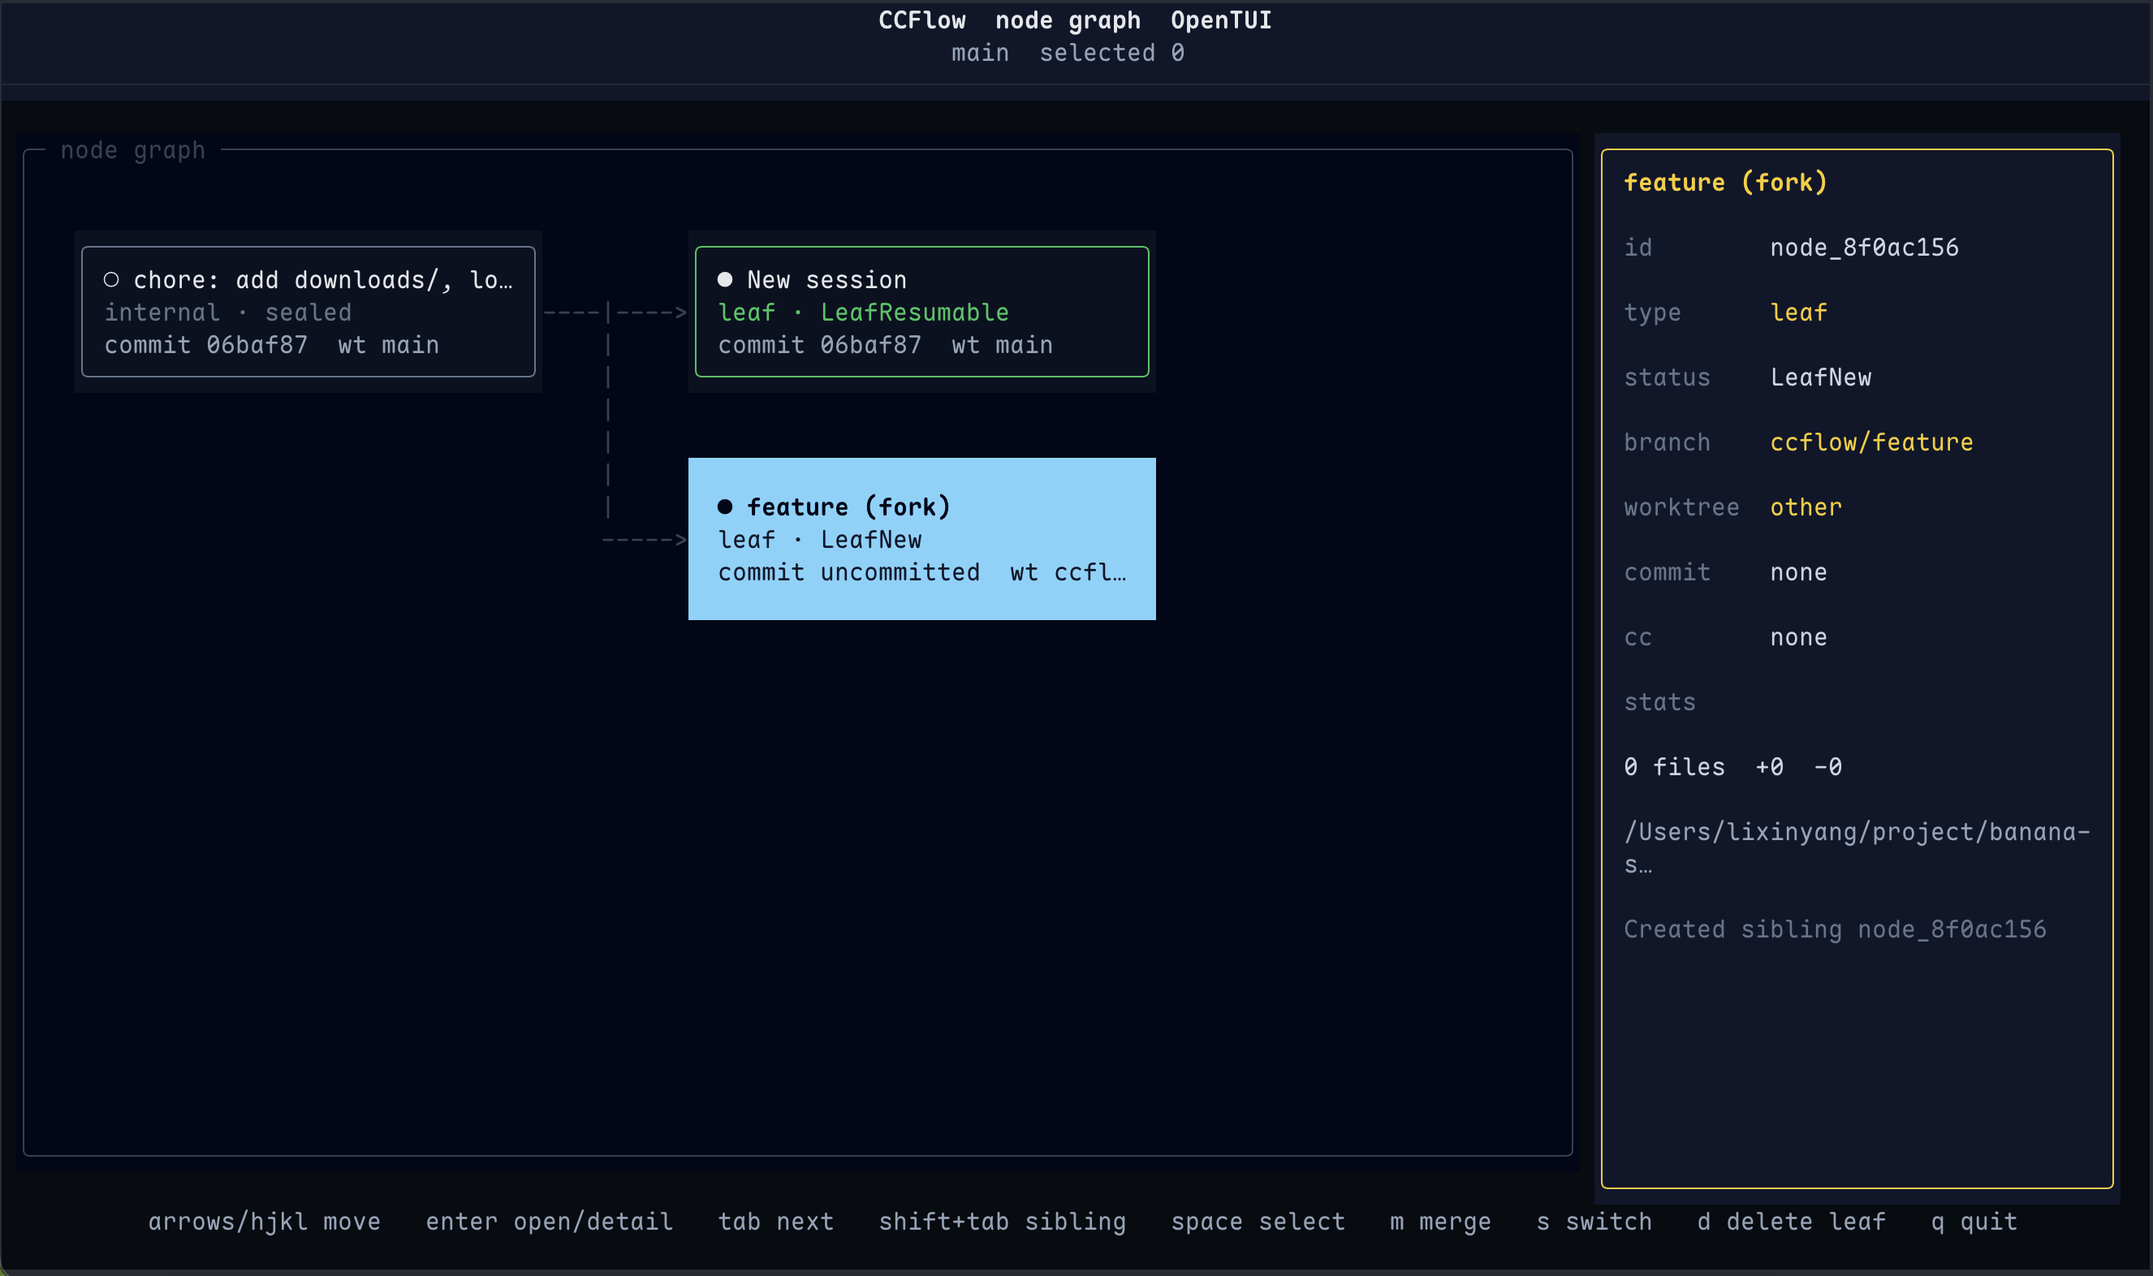
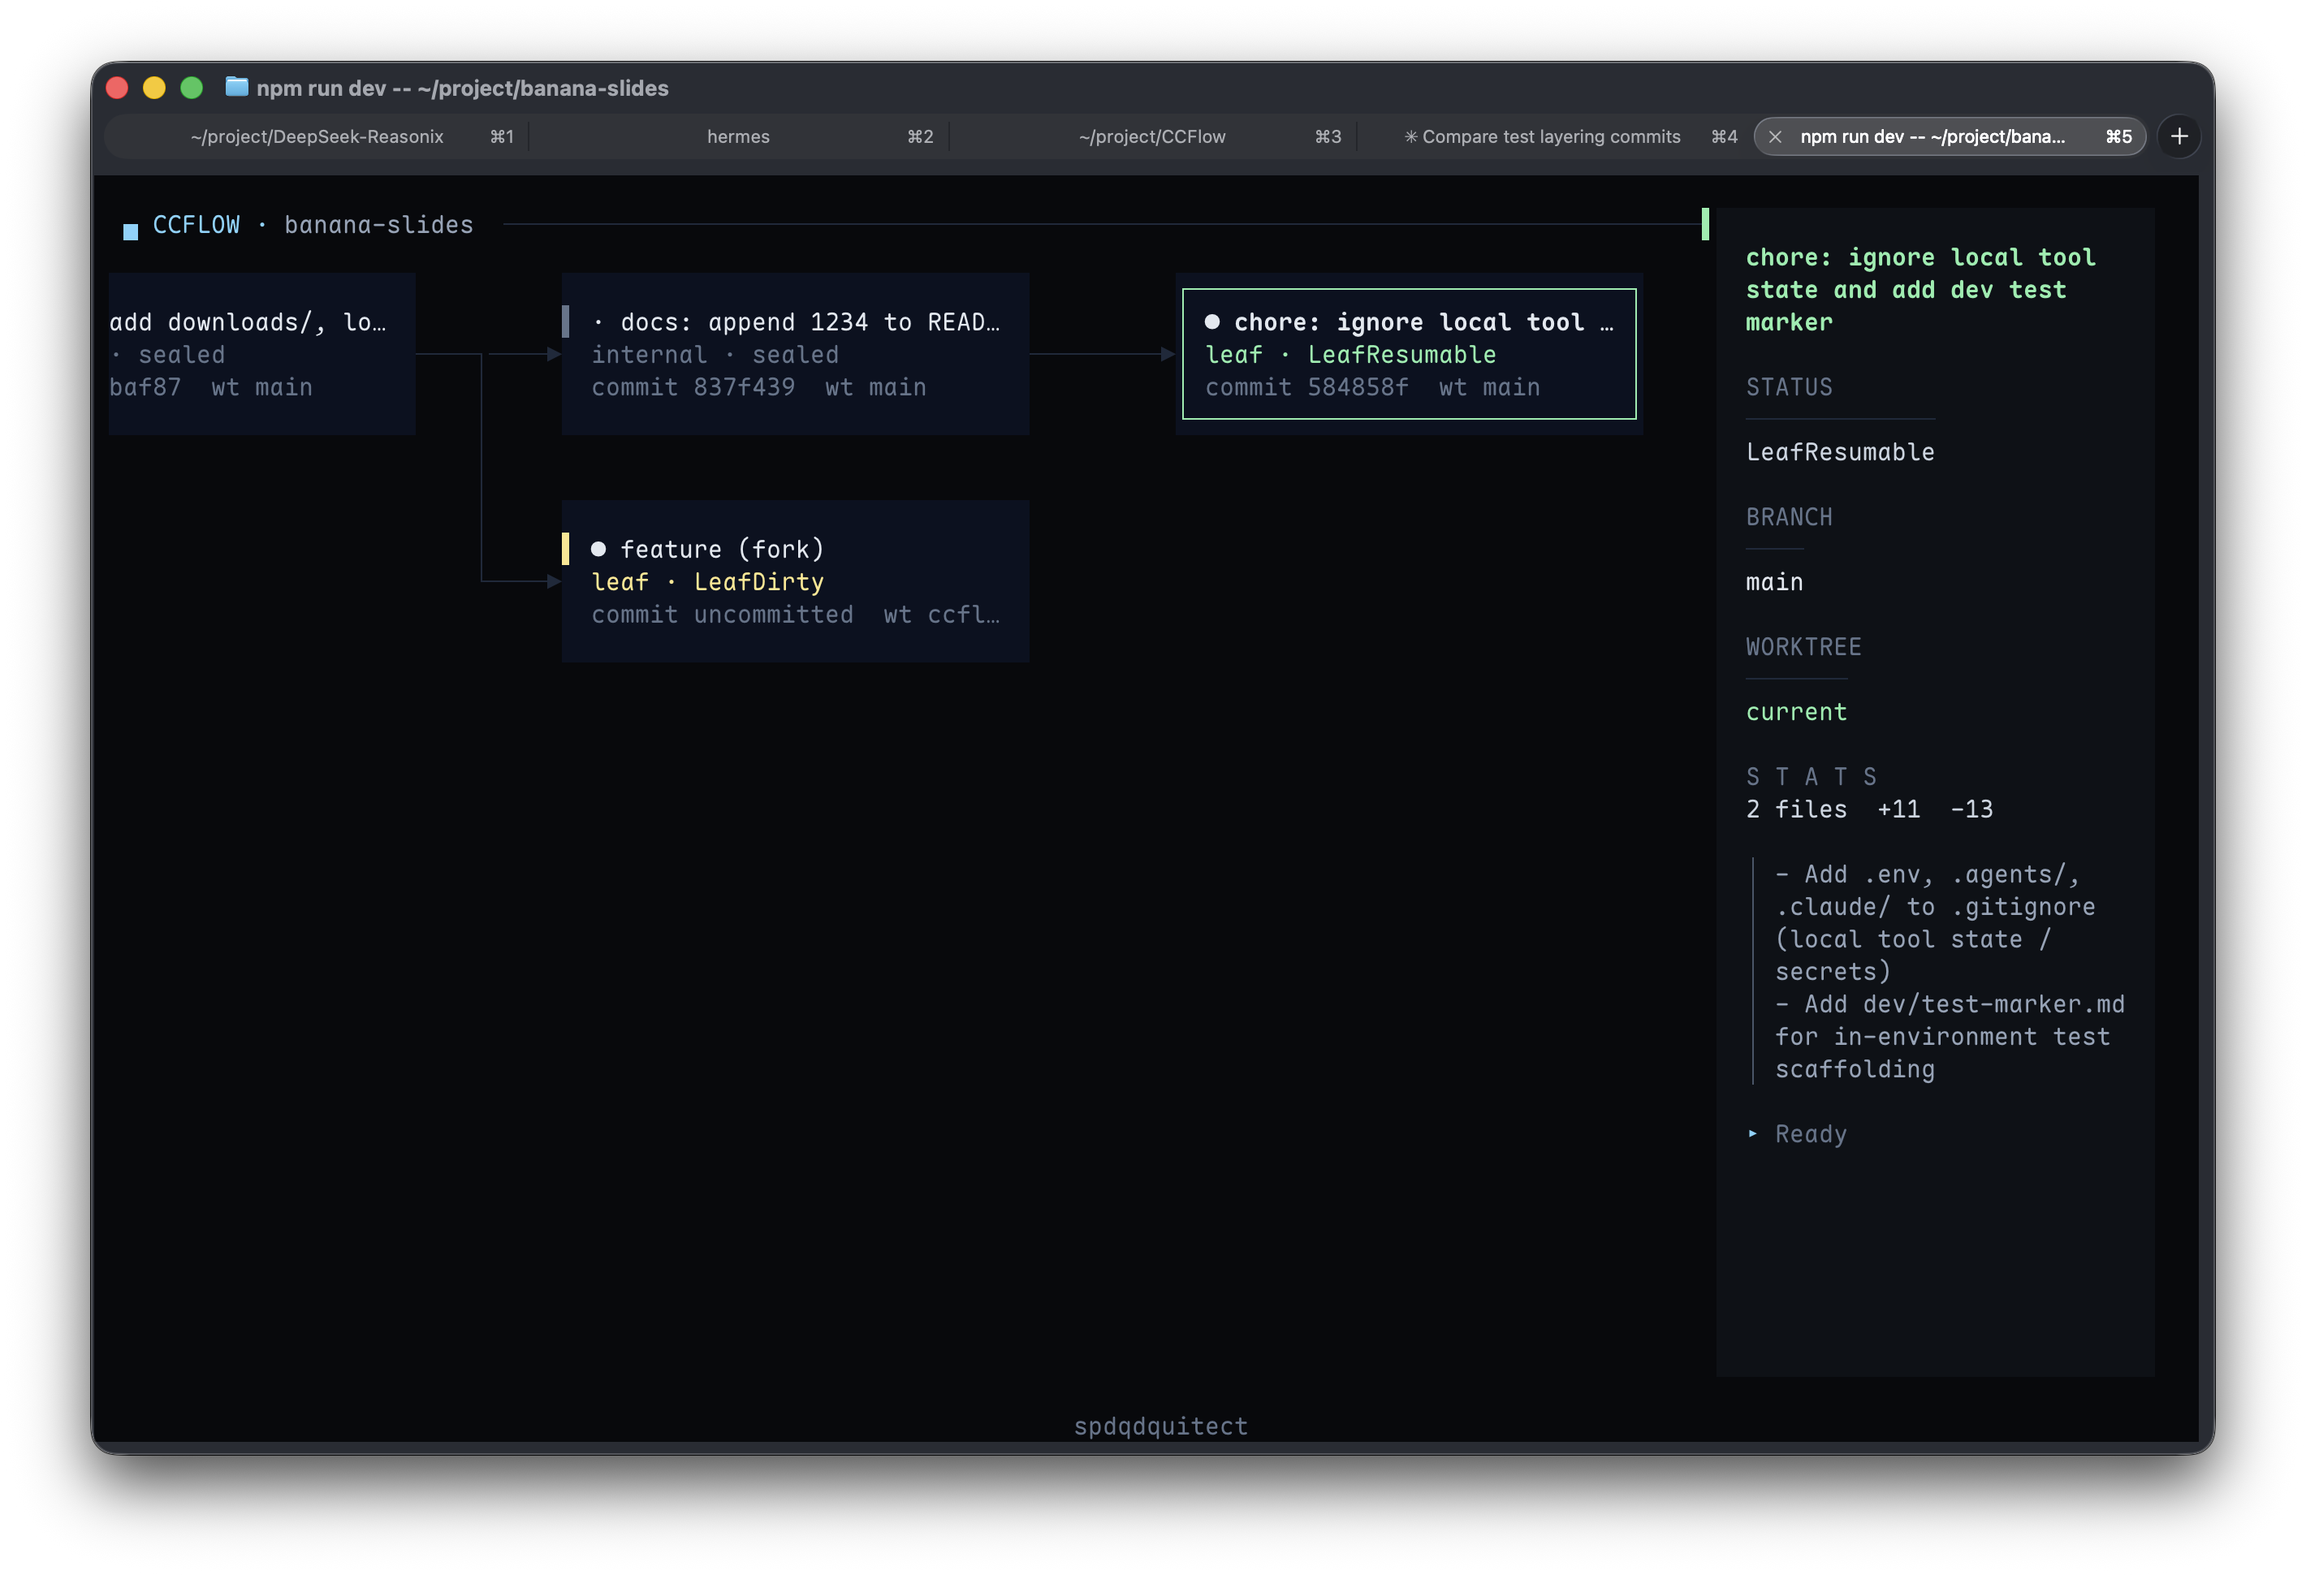
docs(readme): refresh tui screenshot and drop intro image
- Replaced assets/ccflow-tui-node-graph.png with a current TUI capture
- Removed the stale project-map image (assets/ccflow-intro.png)
- Dropped the corresponding image references from README.md and README_zh.md

diff --git a/README.md b/README.md
@@ -28,8 +28,6 @@ In a workflow that does not need worktree-based parallel development, start `ccf
 
 In a worktree-based workflow, press `Shift+Tab` on a node to create a sibling node. Sibling nodes let you work on multiple features in parallel. In the node manager, press `Space` to select multiple nodes, then press `m` to merge them. Behind the scenes, CCFlow asks Claude Code to commit the selected nodes, waits for all commits to complete, then asks Claude Code to perform an automated merge. After the merge finishes, CCFlow gives you a new node and a clean context so you can keep working.
 
-![CCFlow project map](./assets/ccflow-intro.png)
-
 ## Requirements
 
 - Node.js 22 or newer
